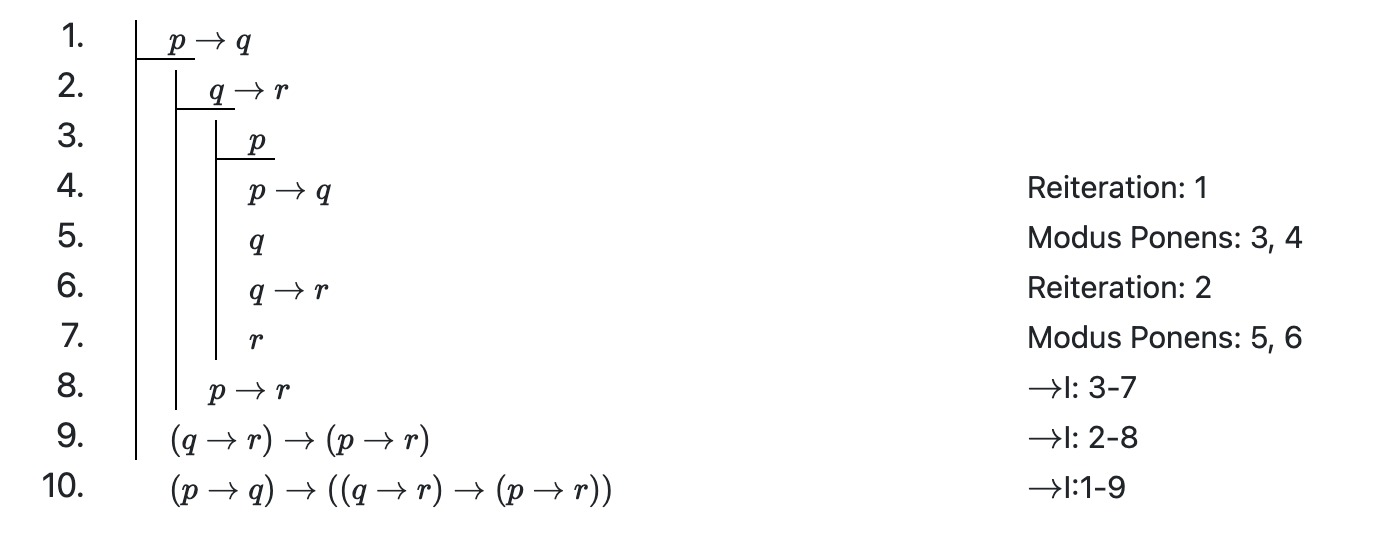
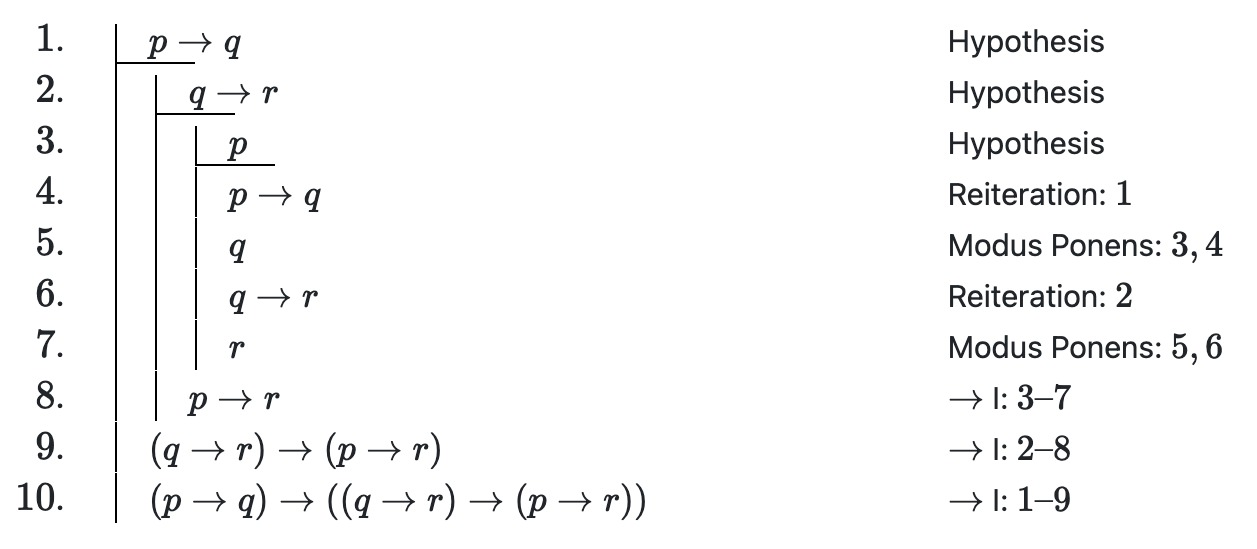
Update README.md

diff --git a/README.md b/README.md
@@ -26,7 +26,7 @@ filters:
 
 ## Basic Usage
 
-Object Language proofs (lproofs) are delimited within a fenced
+Object-language proofs (lproofs) are delimited within a fenced
 [div](https://quarto.org/docs/authoring/markdown-basics.html#divs-and-spans) block assigned the custom
 class `.lproof`. Every line of text in the block must be indented (at least) four spaces (or one
 tab) so as to ensure that quarto reads the text
@@ -42,37 +42,37 @@ for that line enclosed within square brackets (`[` and `]`):
 ```
 ::: {.lproof} :::
 
-    1. $P$                  [Premise]
-    2. $P\rightarrow Q$     [Premise]
-    3. $Q$                  [Modus Ponens: 1, 2]
+    1. P                  [Premise]
+    2. P\rightarrow Q     [Premise]
+    3. Q                  [Modus Ponens: 1, 2]
 
 :::
 ```
 
+All formulas are automatically formatted in math-mode.
 When written to HTML this proof is rendered as follows:
 
 ![simple_lproof](simple_lproof.jpeg)
 
 ### Fitch-Style Proofs
 
-The lproof extension also allows for the inclusion of Fitch-style proofs in quarto projects. To
-represent such proofs, vertical line symbols (`|`) are used to indicate
+The lproof extension also allows for the formatting of Fitch-style proofs. To represent such proofs, vertical line symbols (`|`) are used to indicate
 the depth of the subproof in which a line occurs and underscores (`_`) are used to mark new hypotheses
 initiating subproofs.
 
 ```
 ::: {.lproof} :::
 
-    1.  |_  $p\rightarrow q$
-    2.  | |_  $q\rightarrow r$
-    3.  | | |_  $p$
-    4.  | | |   $p\rightarrow q$                                                        [Reiteration: 1]
-    5.  | | |   $q$                                                                     [Modus Ponens: 3, 4]
-    6.  | | |   $q\rightarrow r$                                                        [Reiteration: 2]
-    7.  | | |   $r$                                                                     [Modus Ponens: 5, 6]
-    8.  | |   $p\rightarrow r$                                                          [$\rightarrow$I: 3-7]
-    9.  |   $(q\rightarrow r)\rightarrow (p\rightarrow r)$                              [$\rightarrow$I: 2-8]
-    10.   $(p\rightarrow q)\rightarrow((q\rightarrow r)\rightarrow (p\rightarrow r))$   [$\rightarrow$I:1-9]
+    1.  |_ p\rightarrow q                                                           [Hypothesis]
+    2.  | |_ q\rightarrow r                                                         [Hypothesis]
+    3.  | | |_ p                                                                    [Hypothesis]
+    4.  | | |  p\rightarrow q                                                       [Reiteration: 1]
+    5.  | | |  q                                                                    [Modus Ponens: 3, 4]
+    6.  | | |  q\rightarrow r                                                       [Reiteration: 2]
+    7.  | | |  r                                                                    [Modus Ponens: 5, 6]
+    8.  | |  p\rightarrow r                                                         [$\rightarrow$ I: 3--7]
+    9.  |  (q\rightarrow r)\rightarrow(p\rightarrow r)                              [$\rightarrow$ I: 2--8]
+    10. |  (p\rightarrow q)\rightarrow((q\rightarrow r)\rightarrow(p\rightarrow r)) [$\rightarrow$ I: 1--9]
 
 :::
 ```
@@ -93,12 +93,14 @@ expression can be used in place of a line number, e.g.:
 ```
 ::: {.lproof} :::
 
-    n.   $P$                  [Premise]
-    n+1. $P\rightarrow Q$     [Premise]
-    n+2. $Q$                  [Modus Ponens: 1, 2]
+    n.   P                  [Premise]
+    n+1. P\rightarrow Q     [Premise]
+    n+2. Q                  [Modus Ponens: n, n+1]
 
 :::
 ```
+
+![simple_lproof_with_indexes](simple_lproof_2.jpeg)
 
 ### Ellipses [TODO]
 
